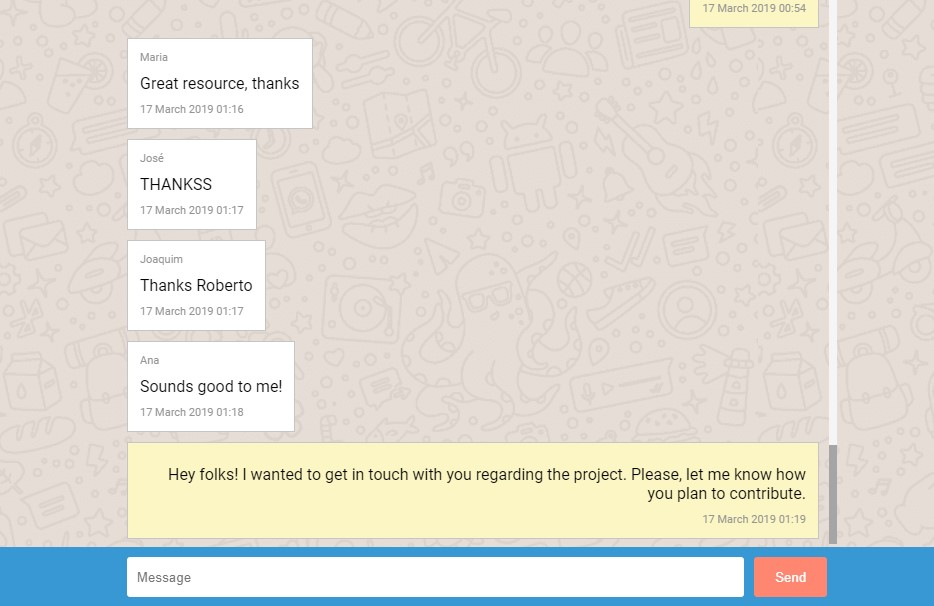
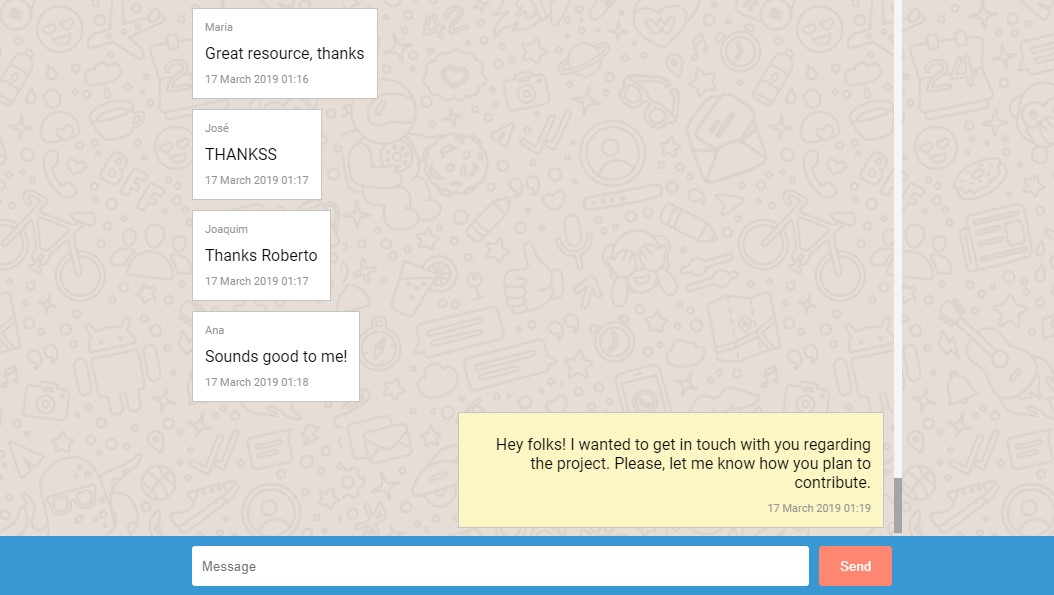
Minor style adjustments

Changed region(s): [[0.0, 0.0, 1.0, 0.9983]]

diff --git a/app/styles/main.css b/app/styles/main.css
@@ -77,6 +77,7 @@ body {
     margin: 5px 0;
     display: inline-block;
     padding: 12px;
+    max-width: 400px;
 }
 
 #message-container .row>div>span {

diff --git a/app/index.html b/app/index.html
@@ -24,6 +24,7 @@
       </div>
     </div>
   </div>
+  
   <script src="https://unpkg.com/moment"></script>
   <script src="scripts/main.js"></script>
 
